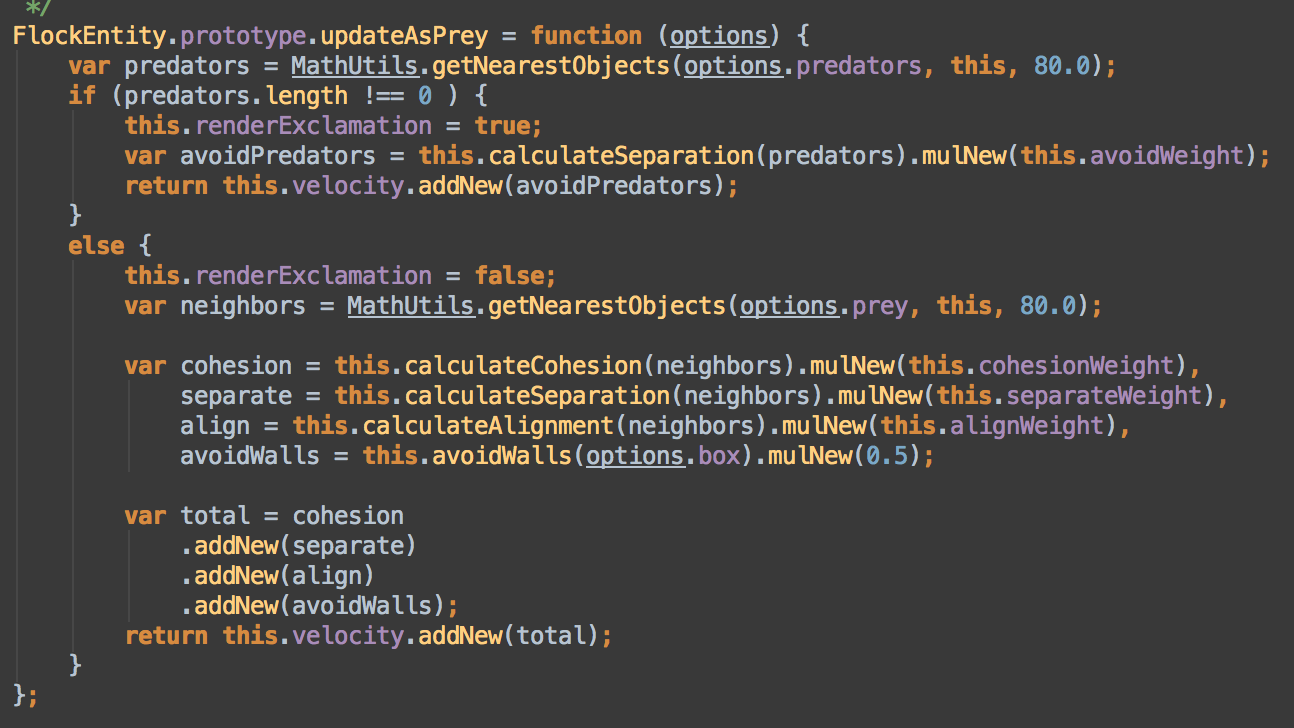
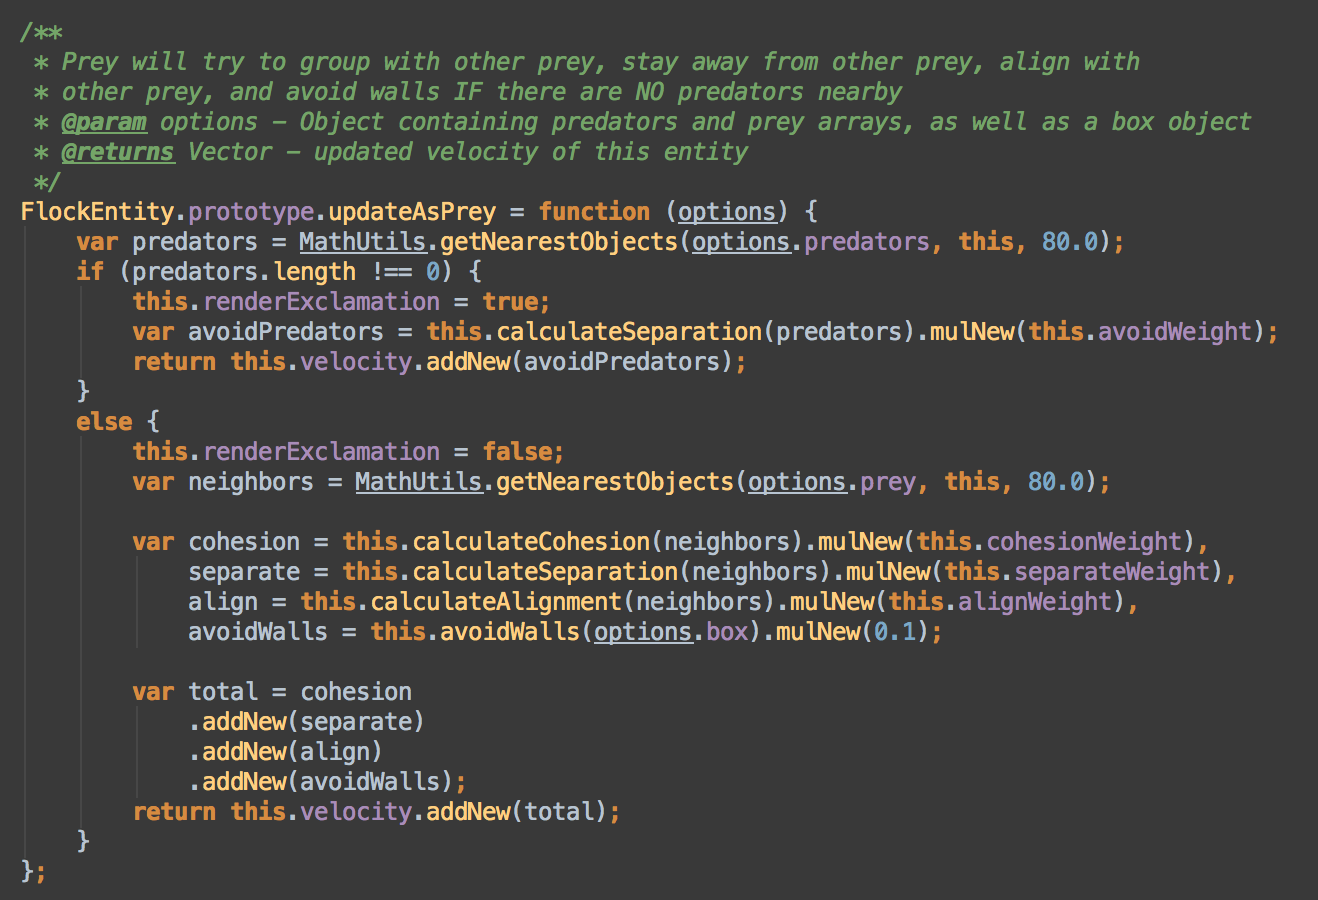
Added updated images for SI.

Changed region(s): [[0.0, 0.0, 0.9892, 0.9368], [0.0, 0.9368, 0.0309, 0.9973], [0.0309, 0.9066, 0.0618, 0.9368]]

diff --git a/presentations/swarmIntelligence.html b/presentations/swarmIntelligence.html
@@ -708,8 +708,8 @@
                         </p>
                     </section>
                     <section>
-                        The entity's update function:
-                        <img src="../image/swarm/flockBasicUpdate.png" />
+                        Entity Update - In Code!
+                        <img src="../image/swarm/flockBasicUpdate.png"  class="break-max-width" style="width: 900px; height: 400px;"/>
                     </section>
                 </section>
 
@@ -747,6 +747,14 @@
                             <br>
                             <img src="../image/swarm/predator/predator_cohesionCenterNorm.png" />
                         </p>
+                    </section>
+                    <section>
+                        Prey Entity Update - In Code!
+                        <img src="../image/swarm/flockPreyUpdate.png"  class="break-max-width" style="width: 900px; height: 650px;"/>
+                    </section>
+                    <section>
+                        Predator Entity Update - In Code!
+                        <img src="../image/swarm/flockPredatorUpdate.png"  class="break-max-width" style="width: 900px; height: 500px;"/>
                     </section>
                 </section>
 
